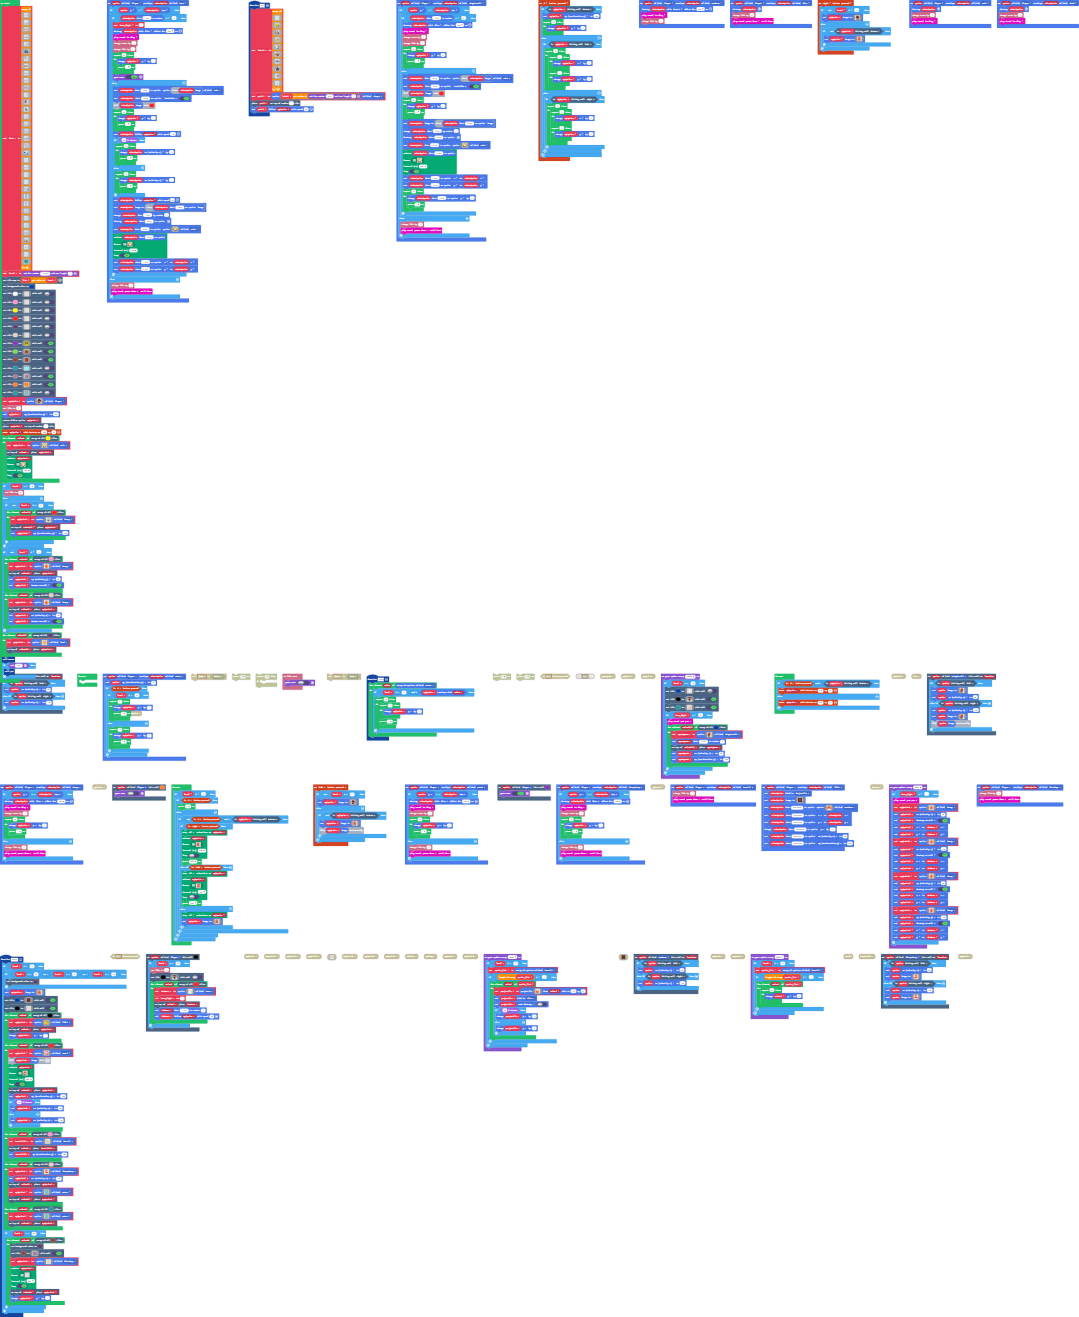
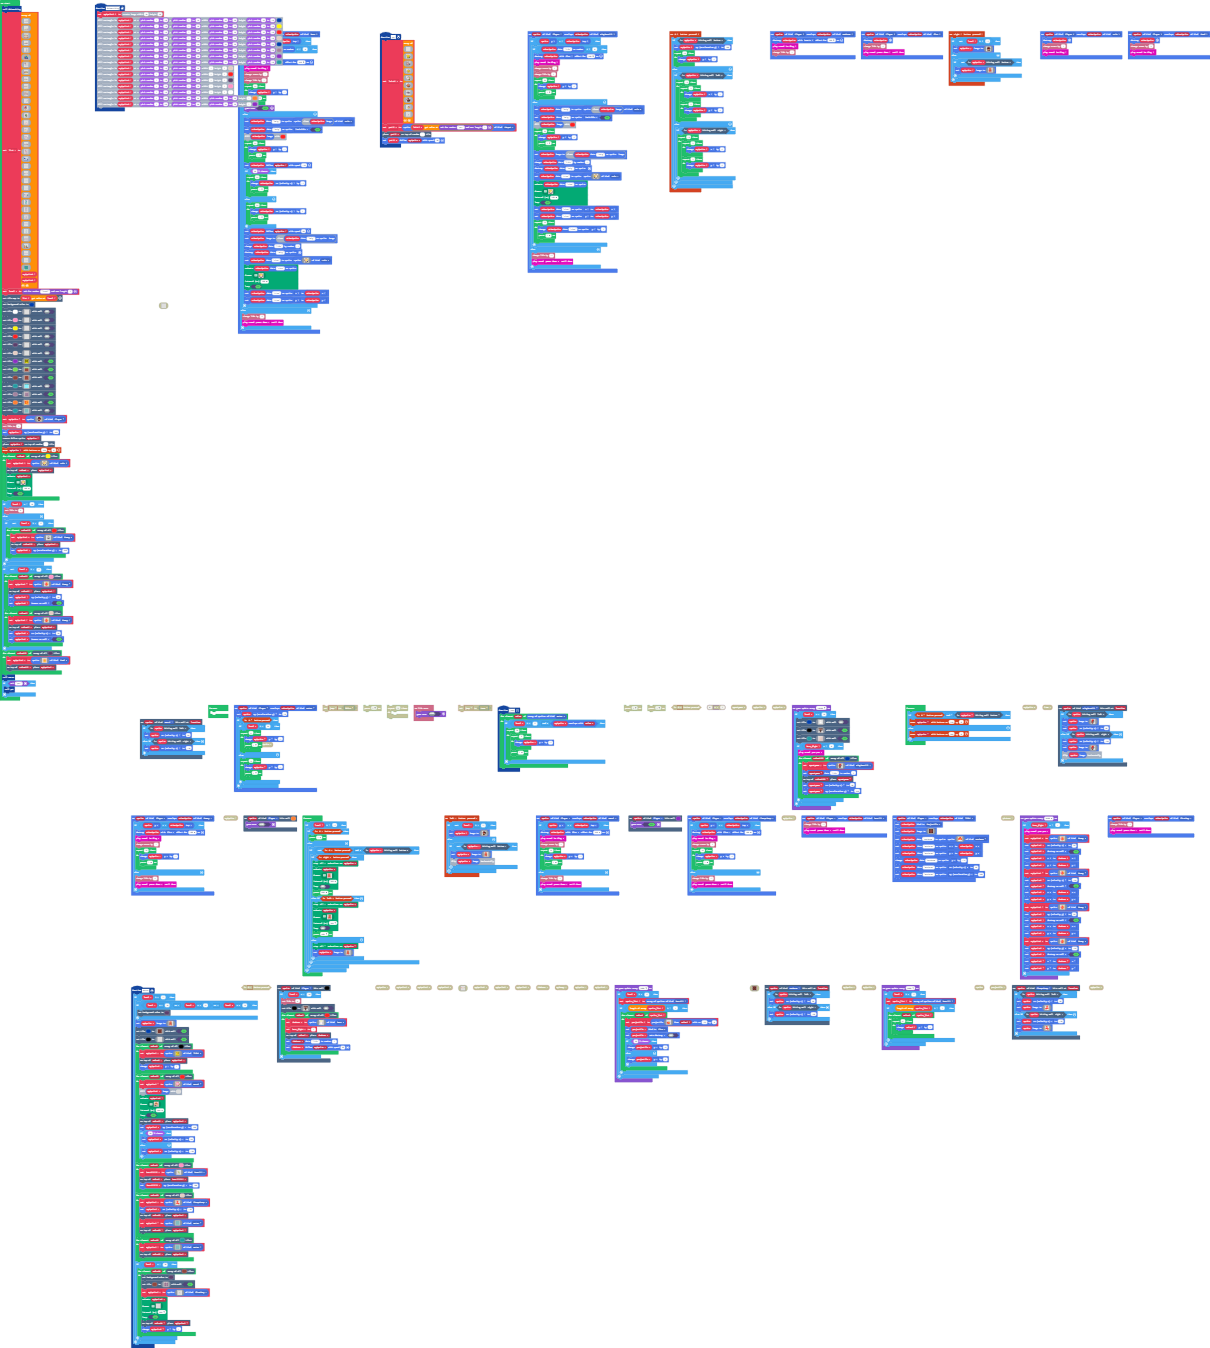
Update main.blocks, main.ts

Changed region(s): [[0.0, 0.0, 1.0, 1.0], [0.0612, 0.0, 1.0, 0.2491]]

diff --git a/main.ts b/main.ts
@@ -653,6 +653,24 @@ sprites.onOverlap(SpriteKind.Player, SpriteKind.woter, function (sprite, otherSp
         }
     }
 })
+function doSomething () {
+    mySprite3 = image.create(20, 20)
+    mySprite3.fillRect(randint(1, 10), randint(1, 10), randint(10, 20), randint(10, 20), 8)
+    mySprite3.fillRect(randint(1, 10), randint(1, 10), randint(10, 20), randint(10, 20), 5)
+    mySprite3.fillRect(randint(1, 10), randint(1, 10), randint(10, 20), randint(10, 20), 2)
+    mySprite3.fillRect(randint(1, 10), randint(1, 10), randint(10, 20), randint(10, 20), 13)
+    mySprite3.fillRect(randint(1, 10), randint(1, 10), randint(10, 20), randint(10, 20), 8)
+    mySprite3.fillRect(randint(1, 10), randint(1, 10), randint(10, 20), randint(10, 20), 11)
+    mySprite3.fillRect(randint(1, 50), randint(40, 50), randint(10, 20), randint(10, 20), 10)
+    mySprite3.fillRect(randint(1, 10), randint(1, 10), randint(10, 20), randint(10, 20), 6)
+    mySprite3.fillRect(randint(1, 10), randint(1, 10), 1, 1, 13)
+    mySprite3.fillRect(randint(1, 10), randint(1, 10), 1, 1, 2)
+    mySprite3.fillRect(randint(1, 10), randint(1, 10), 1, 1, 12)
+    mySprite3.fillRect(randint(1, 10), randint(1, 10), 1, 1, 3)
+    mySprite3.fillRect(randint(1, 10), randint(1, 10), 1, 1, 1)
+    mySprite3.fillRect(randint(1, 50), randint(40, 50), randint(10, 20), 1, 4)
+    mySprite3.fillRect(randint(1, 50), randint(40, 50), randint(10, 20), 1, 10)
+}
 sprites.onOverlap(SpriteKind.Player, SpriteKind.coin, function (sprite, otherSprite) {
     otherSprite.destroy()
     info.changeScoreBy(1)
@@ -1685,6 +1703,8 @@ let boss_fight = 0
 let mySprite2: Sprite = null
 let mySprite: Sprite = null
 let level = 0
+let mySprite3: Image = null
+doSomething()
 let list = [
 img`
     . . . . . . . . . . . . . . . . . . . . . . . b . . . . . . . c . 5 5 5 5 5 5 5 5 5 5 5 5 5 5 5 5 
@@ -2718,7 +2738,9 @@ img`
     . . 6 6 6 6 6 6 6 6 6 6 6 6 6 6 
     1 . 6 6 6 6 6 6 6 6 6 6 6 6 6 d 
     7 7 7 7 7 7 7 7 7 7 7 7 7 7 7 7 
-    `
+    `,
+mySprite3,
+mySprite3
 ]
 level = game.askForNumber("level", 2)
 scene.setTileMap(list[level])
